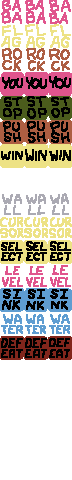
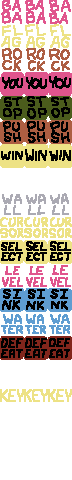
add KEY

Changed region(s): [[0.0, 0.8125, 1.0, 0.8438]]

diff --git a/src/unit.rs b/src/unit.rs
@@ -84,6 +84,7 @@ const UNIT_TYPES: &[UnitTypeData] = &[
     word(Text::Noun(Noun::Water), "WT", 13),
     word(Text::Property(Property::Defeat), "DE", 14),
     word(Text::Operator(Operator::Has), "HA", 15),
+    word(Text::Noun(Noun::Key), "KE", 16),
     object(Noun::Baba, "ba", 0, Facing::Directional, UnitGroup::Characters),
     object(Noun::Flag, "fl", 1, Facing::Fixed, UnitGroup::Item),
     object(Noun::Rock, "ro", 2, Facing::Fixed, UnitGroup::Item),
@@ -92,6 +93,7 @@ const UNIT_TYPES: &[UnitTypeData] = &[
     object(Noun::Level, "le", 5, Facing::Fixed, UnitGroup::Ground),
     object(Noun::Path, "pa", 6, Facing::Fixed, UnitGroup::Ground),
     object(Noun::Water, "wt", 7, Facing::Fixed, UnitGroup::Liquid),
+    object(Noun::Key, "ke", 8, Facing::Fixed, UnitGroup::Item),
 ];
 
 pub fn lookup_unit(kind: UnitKind) -> &'static UnitTypeData {
@@ -113,6 +115,7 @@ pub enum Noun {
     Level,
     Path,
     Water,
+    Key,
 }
 
 #[derive(Clone, Copy, Debug, PartialEq, Eq)]
